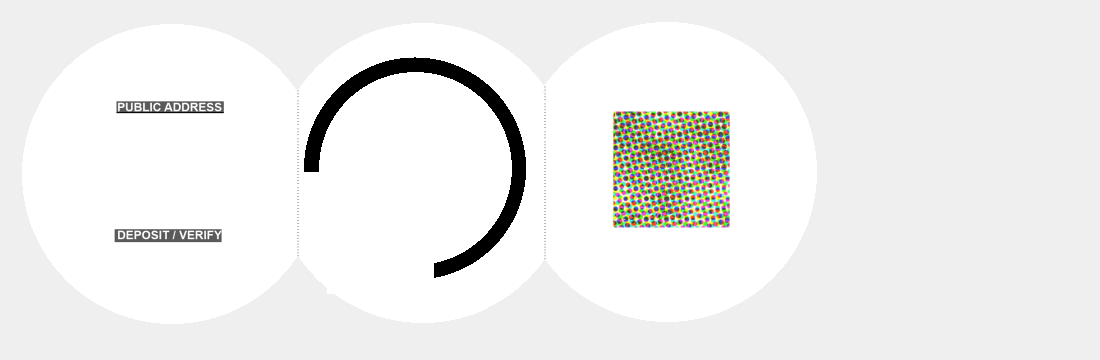
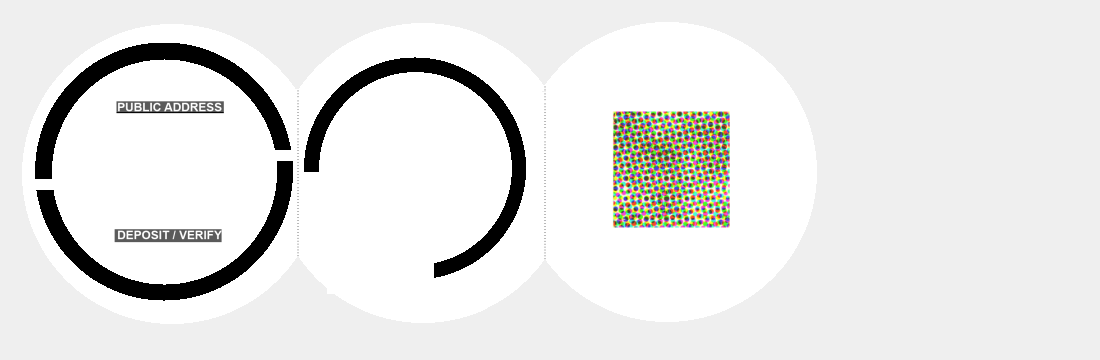
frames fixes

Changed region(s): [[0.0309, 0.1222, 0.2782, 0.8556]]

diff --git a/css/style.css b/css/style.css
@@ -1188,7 +1188,7 @@ margin-left: 20px !important;
 
 .frame-3.back .coin-wallet .wallet-frame
 {
-	background-image: url('../images/wallet-frames/Frame-3Back.png');
+	background-image: url('../images/wallet-frames/Frame-3-Back.png');
 }
 
 .frame-4 .coin-wallet .wallet-frame
@@ -1248,11 +1248,11 @@ background: none;
 .frame-2 .coin-wallet-address span
 {
 	font: 16px;
-	height: 131px;
+	height: 127px;
 	position: absolute;
 	width: 20px;
-	left: 158px;
-	top: 38px;
+	left: 156px;
+	top: 42px;
 	transform-origin: bottom center;
 	-webkit-transform-origin: bottom center;
 	text-shadow: 4px 1px 4px rgba(0,0,0,0.5);
@@ -1261,7 +1261,7 @@ background: none;
 .frame-1 .coin-wallet-private-key span,
 .frame-2 .coin-wallet-private-key span
 {
-	font: 14px;
+	font: 13px;
 	height: 109px;
 	position: absolute;
 	width: 20px;
